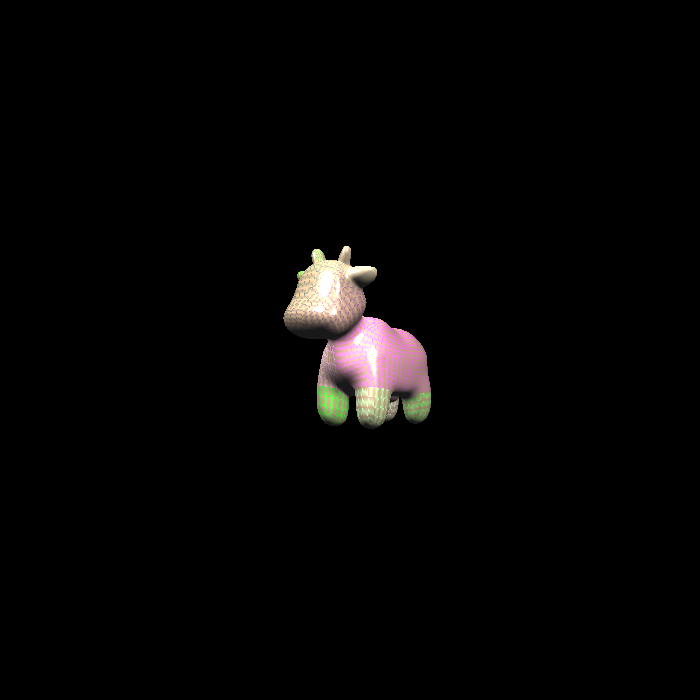
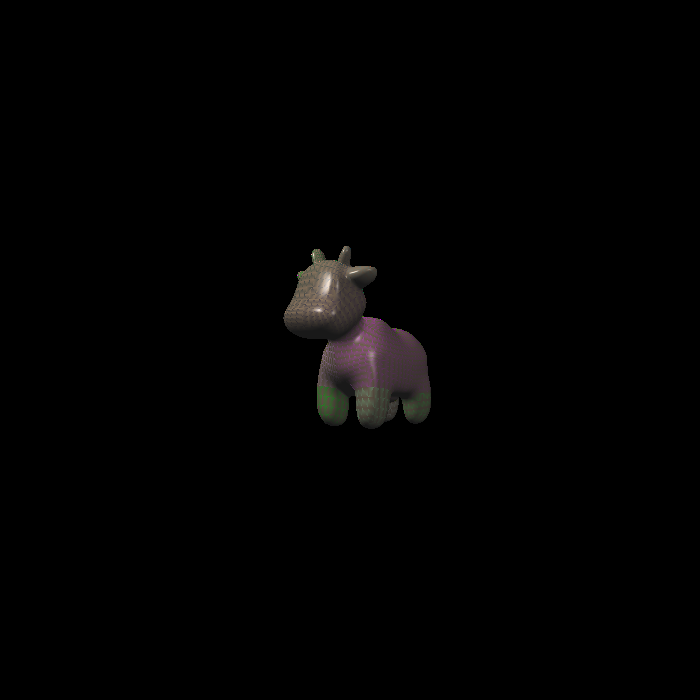
complete Assignment 3 of GAMES101

Changed region(s): [[0.39, 0.33, 0.63, 0.63]]

diff --git a/GAMES101/Assignment3/source/main.cpp b/GAMES101/Assignment3/source/main.cpp
@@ -134,15 +134,15 @@ Eigen::Vector3f texture_fragment_shader(const fragment_shader_payload& payload)
 
         Eigen::Vector3f ambient(ka.x()*amb_light_intensity.x(), ka.y()*amb_light_intensity.y(),ka.z()*amb_light_intensity.z());
 
-        float r_square = (eye_pos-point).squaredNorm();
+        float r_square = (light.position-point).squaredNorm();
         float max_n_l= std::max(0.0f, n.dot(l));
-        Eigen::Vector3f diffuse = {kd.x()*(light.intensity.x()/r_square), kd.y()*(light.intensity.y()/r_square),kd.z()*(light.intensity.z()/r_square)};
+        Eigen::Vector3f diffuse = kd.cwiseProduct(light.intensity/r_square);
         diffuse*=max_n_l;
 
         Eigen::Vector3f h=(v+l).normalized();
         float max_n_h = std::max(0.0f,n.dot(h));
         max_n_h = std::pow(max_n_h,p);
-        Eigen::Vector3f specular = {ks.x()*(light.intensity.x()/r_square),ks.y()*(light.intensity.y()/r_square),ks.z()*(light.intensity.z()/r_square)};
+        Eigen::Vector3f specular = ks.cwiseProduct(light.intensity/r_square);
         specular*=max_n_h;
 
         result_color+=(ambient + diffuse + specular);
@@ -179,24 +179,24 @@ Eigen::Vector3f phong_fragment_shader(const fragment_shader_payload& payload)
         Eigen::Vector3f n=normal.normalized();
         Eigen::Vector3f l=(light.position-point).normalized();
 
-        Eigen::Vector3f ambient(ka.x()*amb_light_intensity.x(), ka.y()*amb_light_intensity.y(),ka.z()*amb_light_intensity.z());
+        Eigen::Vector3f ambient = ka.cwiseProduct(amb_light_intensity);
 
-        float r_square = (eye_pos-point).squaredNorm();
+        float r_square = (light.position-point).squaredNorm();
         float max_n_l= std::max(0.0f, n.dot(l));
-        Eigen::Vector3f diffuse = {kd.x()*(light.intensity.x()/r_square), kd.y()*(light.intensity.y()/r_square),kd.z()*(light.intensity.z()/r_square)};
+        Eigen::Vector3f diffuse = kd.cwiseProduct(light.intensity/r_square);
         diffuse*=max_n_l;
 
         Eigen::Vector3f h=(v+l).normalized();
         float max_n_h = std::max(0.0f,n.dot(h));
         max_n_h = std::pow(max_n_h,p);
-        Eigen::Vector3f specular = {ks.x()*(light.intensity.x()/r_square),ks.y()*(light.intensity.y()/r_square),ks.z()*(light.intensity.z()/r_square)};
+        Eigen::Vector3f specular = ks.cwiseProduct(light.intensity/r_square);
         specular*=max_n_h;
 
         result_color+=(ambient + diffuse + specular);
     }
-
     return result_color * 255.f;
 }
+
 
 Eigen::Vector3f displacement_fragment_shader(const fragment_shader_payload& payload)
 {
@@ -232,6 +232,31 @@ Eigen::Vector3f displacement_fragment_shader(const fragment_shader_payload& payl
     // Normal n = normalize(TBN * ln)
 
 
+    float x = normal.x();
+    float y = normal.y();
+    float z = normal.z();
+    Eigen::Vector3f n = normal;
+    Eigen::Vector3f t{x*y/std::sqrt(x*x+z*z),std::sqrt(x*x+z*z),z*y/std::sqrt(x*x+z*z)};
+    Eigen::Vector3f b = n.cross(t);
+    Eigen::Matrix3f TBN;
+    TBN <<  t.x(), b.x(), n.x(),
+            t.y(), b.y(), n.y(),
+            t.z(), b.z(), n.z();
+
+    float u = payload.tex_coords.x();
+    float v = payload.tex_coords.y();
+    float w = payload.texture->width;
+    float h = payload.texture->height;
+
+    float dU = kh * kn * (payload.texture->getColor(u+1.0f/w,v).norm() - payload.texture->getColor(u, v).norm());
+    float dV = kh * kn * (payload.texture->getColor(u,v+1.0f/h).norm() - payload.texture->getColor(u, v).norm());
+
+    Eigen::Vector3f ln{-dU, -dV, 1.0f};
+
+    point += (kn * normal * payload.texture->getColor(u , v).norm());
+
+    normal = TBN * ln;
+    normal = normal.normalized();
     Eigen::Vector3f result_color = {0, 0, 0};
 
     for (auto& light : lights)
@@ -239,11 +264,115 @@ Eigen::Vector3f displacement_fragment_shader(const fragment_shader_payload& payl
         // TODO: For each light source in the code, calculate what the *ambient*, *diffuse*, and *specular* 
         // components are. Then, accumulate that result on the *result_color* object.
 
+        Eigen::Vector3f v=(eye_pos-point).normalized();
+        Eigen::Vector3f n=normal.normalized();
+        Eigen::Vector3f l=(light.position-point).normalized();
 
+        Eigen::Vector3f ambient = ka.cwiseProduct(amb_light_intensity);
+
+        float r_square = (light.position-point).squaredNorm();
+        float max_n_l= std::max(0.0f, n.dot(l));
+        Eigen::Vector3f diffuse = kd.cwiseProduct(light.intensity/r_square);
+        diffuse*=max_n_l;
+
+        Eigen::Vector3f h=(v+l).normalized();
+        float max_n_h = std::max(0.0f,n.dot(h));
+        max_n_h = std::pow(max_n_h,p);
+        Eigen::Vector3f specular = ks.cwiseProduct(light.intensity/r_square);
+        specular*=max_n_h;
+
+        result_color+=(ambient + diffuse + specular);
     }
 
     return result_color * 255.f;
 }
+
+/*Eigen::Vector3f displacement_fragment_shader(const fragment_shader_payload& payload)
+{
+
+    Eigen::Vector3f ka = Eigen::Vector3f(0.005, 0.005, 0.005);
+    Eigen::Vector3f kd = payload.color;
+    Eigen::Vector3f ks = Eigen::Vector3f(0.7937, 0.7937, 0.7937);
+
+    auto l1 = light{{20, 20, 20}, {500, 500, 500}};
+    auto l2 = light{{-20, 20, 0}, {500, 500, 500}};
+
+    std::vector<light> lights = {l1, l2};
+    Eigen::Vector3f amb_light_intensity{10, 10, 10};
+    Eigen::Vector3f eye_pos{0, 0, 10};
+
+    float p = 150;
+
+    Eigen::Vector3f color = payload.color;
+    Eigen::Vector3f point = payload.view_pos;
+    Eigen::Vector3f normal = payload.normal;
+
+    float kh = 0.2, kn = 0.1;
+
+    // TODO: Implement displacement mapping here
+    // Let n = normal = (x, y, z)
+    // Vector t = (x*y/sqrt(x*x+z*z),sqrt(x*x+z*z),z*y/sqrt(x*x+z*z))
+    // Vector b = n cross product t
+    // Matrix TBN = [t b n]
+    // dU = kh * kn * (h(u+1/w,v)-h(u,v))
+    // dV = kh * kn * (h(u,v+1/h)-h(u,v))
+    // Vector ln = (-dU, -dV, 1)
+    // Position p = p + kn * n * h(u,v)
+    // Normal n = normalize(TBN * ln)
+
+    float x = normal.x();
+    float y = normal.y();
+    float z = normal.z();
+    Eigen::Vector3f t{ x*y / std::sqrt(x*x + z * z), std::sqrt(x*x + z * z), z*y / std::sqrt(x*x + z * z) };
+    Eigen::Vector3f b = normal.cross(t);
+    Eigen::Matrix3f TBN;
+    TBN << t.x(), b.x(), normal.x(),
+            t.y(), b.y(), normal.y(),
+            t.z(), b.z(), normal.z();
+
+    float u = payload.tex_coords.x();
+    float v = payload.tex_coords.y();
+    float w = payload.texture->width;
+    float h = payload.texture->height;
+
+
+    float dU = kh * kn * (payload.texture->getColor(u + 1.0f / w, v).norm() - payload.texture->getColor(u , v).norm());
+    float dV = kh * kn * (payload.texture->getColor(u, v + 1.0f / h).norm() - payload.texture->getColor(u , v).norm());
+
+    Eigen::Vector3f ln{ -dU,-dV,1.0f };
+
+    point += (kn * normal * payload.texture->getColor(u , v).norm());
+
+    normal = TBN * ln;
+    normal = normal.normalized();
+
+    Eigen::Vector3f result_color = {0, 0, 0};
+
+    for (auto& light : lights)
+    {
+        // TODO: For each light source in the code, calculate what the *ambient*, *diffuse*, and *specular*
+        // components are. Then, accumulate that result on the *result_color* object.
+        Eigen::Vector3f light_dir = light.position - point;
+        Eigen::Vector3f view_dir = eye_pos - point;
+        float r = light_dir.dot(light_dir);
+
+        // ambient
+        Eigen::Vector3f La = ka.cwiseProduct(amb_light_intensity);
+        // diffuse
+        Eigen::Vector3f Ld = kd.cwiseProduct(light.intensity / r);
+        Ld *= std::max(0.0f, normal.dot(light_dir.normalized()));
+        // specular
+        Eigen::Vector3f h = (light_dir + view_dir).normalized();
+        Eigen::Vector3f Ls = ks.cwiseProduct(light.intensity / r);
+        Ls *= std::pow(std::max(0.0f, normal.dot(h)), p);
+
+        result_color += (La + Ld + Ls);
+
+    }
+
+    return result_color * 255.f;
+}*/
+
 
 
 Eigen::Vector3f bump_fragment_shader(const fragment_shader_payload& payload)
@@ -279,10 +408,31 @@ Eigen::Vector3f bump_fragment_shader(const fragment_shader_payload& payload)
     // Vector ln = (-dU, -dV, 1)
     // Normal n = normalize(TBN * ln)
 
+    float x = normal.x();
+    float y = normal.y();
+    float z = normal.z();
+    Eigen::Vector3f n = normal;
+    Eigen::Vector3f t{x*y/sqrt(x*x+z*z),sqrt(x*x+z*z),z*y/sqrt(x*x+z*z)};
+    Eigen::Vector3f b = n.cwiseProduct(t);
+    Eigen::Matrix3f TBN;
+    TBN <<  t.x(), b.x(), n.x(),
+            t.y(), b.y(), n.y(),
+            t.z(), b.z(), n.z();
 
-    Eigen::Vector3f result_color = {0, 0, 0};
-    result_color = normal;
+    float u = payload.tex_coords.x();
+    float v = payload.tex_coords.y();
+    float w = payload.texture->width;
+    float h = payload.texture->height;
 
+    float dU = kh * kn * (payload.texture->getColor(u+1.0f/w,v).norm() - payload.texture->getColor(u, v).norm());
+    float dV = kh * kn * (payload.texture->getColor(u,v+1.0f/h).norm() - payload.texture->getColor(u, v).norm());
+
+    Eigen::Vector3f ln{-dU, -dV, 1.0f};
+
+    normal = TBN * ln;
+
+
+    Eigen::Vector3f result_color = normal.normalized();
     return result_color * 255.f;
 }
 

diff --git a/GAMES101/Assignment3/source/rasterizer.cpp b/GAMES101/Assignment3/source/rasterizer.cpp
@@ -262,21 +262,21 @@ void rst::rasterizer::rasterize_triangle(const Triangle& t, const std::array<Eig
     // TODO: From your HW3, get the triangle rasterization code.
     auto v = t.toVector4();
 
-    float x_min = std::min(v.at(0).x(), std::min(v.at(1).x(),v.at(2).x()));
-    float y_min = std::min(v.at(0).y(), std::min(v.at(1).y(),v.at(2).y()));
-    float x_max = std::max(v.at(0).x(), std::max(v.at(1).x(),v.at(2).x()));
-    float y_max = std::max(v.at(0).y(), std::max(v.at(1).y(),v.at(2).y()));
+    float min_x = std::min(v.at(0).x(), std::min(v.at(1).x(),v.at(2).x()));
+    float min_y = std::min(v.at(0).y(), std::min(v.at(1).y(),v.at(2).y()));
+    float max_x = std::max(v.at(0).x(), std::max(v.at(1).x(),v.at(2).x()));
+    float max_y = std::max(v.at(0).y(), std::max(v.at(1).y(),v.at(2).y()));
 
-    x_min = static_cast<int>(std::floor(x_min));
-    y_min = static_cast<int>(std::floor(y_min));
-    x_max = static_cast<int>(std::ceil(x_max));
-    y_max = static_cast<int>(std::ceil(y_max));
+    int x_min = static_cast<int>(std::floor(min_x));
+    int y_min = static_cast<int>(std::floor(min_y));
+    int x_max = static_cast<int>(std::ceil(max_x));
+    int y_max = static_cast<int>(std::ceil(max_y));
 
     for(auto i = x_min; i <= x_max; i++)
     {
         for(auto j = y_min; j<=y_max;j++)
         {
-            int x = static_cast<int>(i), y = static_cast<int>(j);
+            int x = i, y = j;
             if(insideTriangle((float )x+0.5,(float)y+0.5,t.v))
             {
                 // TODO: Inside your rasterization loop:
@@ -287,7 +287,7 @@ void rst::rasterizer::rasterize_triangle(const Triangle& t, const std::array<Eig
                 // float Z = 1.0 / (alpha / v[0].w() + beta / v[1].w() + gamma / v[2].w());
                 // float zp = alpha * v[0].z() / v[0].w() + beta * v[1].z() / v[1].w() + gamma * v[2].z() / v[2].w();
                 // zp *= Z;
-                auto[alpha, beta, gamma] = computeBarycentric2D(x, y, t.v);
+                auto[alpha, beta, gamma] = computeBarycentric2D(x+0.5, y+0.5, t.v);
                 float Z = 1.0 / (alpha / v[0].w() + beta / v[1].w() + gamma / v[2].w());
                 float zp = alpha * v[0].z() / v[0].w() + beta * v[1].z() / v[1].w() + gamma * v[2].z() / v[2].w();
                 zp *= Z;
@@ -312,7 +312,7 @@ void rst::rasterizer::rasterize_triangle(const Triangle& t, const std::array<Eig
 
                     fragment_shader_payload payload( interpolated_color, interpolated_normal.normalized(), interpolated_texcoords, texture ? &*texture : nullptr);
                     payload.view_pos = interpolated_shadingcoords;
-                    auto pixel_color = this->fragment_shader(payload);
+                    auto pixel_color = fragment_shader(payload);
                     Vector2i position(x,y);
                     set_pixel(position, pixel_color);
                 }
